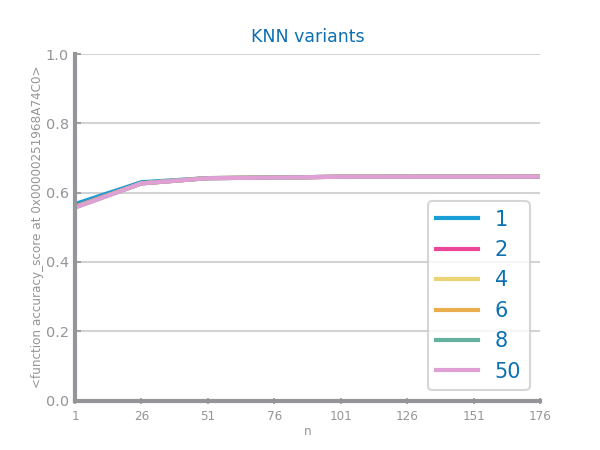
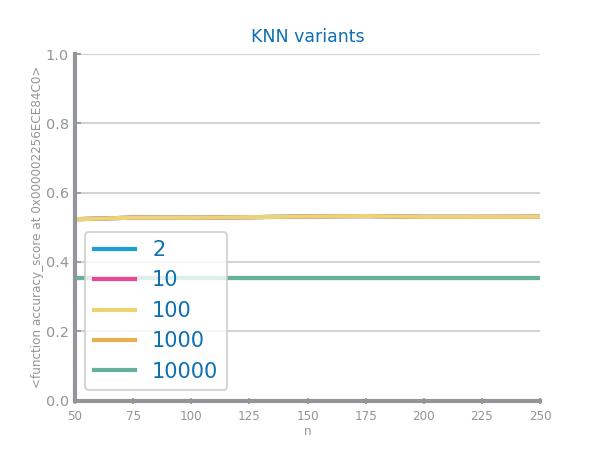
Final config of KNN study

diff --git a/diabetesDataset/lab3/KNNParameterisation.py b/diabetesDataset/lab3/KNNParameterisation.py
@@ -16,17 +16,17 @@ y = data['readmitted']
 X =  data.drop(columns=['readmitted', 'Unnamed: 0'])
 
 
-xTrain, xTest, yTrain, yTest = sklearn.model_selection.train_test_split(X, y, train_size=0.6, random_state=42)
-xTrain, xVal, yTrain, yVal = sklearn.model_selection.train_test_split(
-    xTrain, yTrain, train_size=0.5, random_state=42)
+xTrain, xTest, yTrain, yTest = sklearn.model_selection.train_test_split(X, y, train_size=0.7, random_state=42)
+xTest, xVal, yTest, yVal = sklearn.model_selection.train_test_split(
+    xTest, yTest, train_size=0.3333333333333333333, random_state=42)
 
 labels = unique(yTrain)
 labels.sort()
 # %% GridSearch
 
 evalMetric = accuracy_score
-nvalues = np.arange(175,1001,25)
-dist = np.arange(50, 1001, 50)  # Add more distance metrics
+nvalues = np.arange(175,200, 1)
+dist = [10]  # Add more distance metrics
 values = {}
 best = (0, '')
 lastBest = 0
@@ -44,7 +44,7 @@ for d in dist:
 
 figure()
 multiple_line_chart(nvalues, values, title='KNN variants', xlabel='n', ylabel=str(accuracy_score), percentage=True)
-savefig('images/{file_tag}_knn_study.png')
+savefig('images/final_knn_study.png')
 show()
 print('Best results with %d neighbors and %s'%(best[0], best[1]))
 
@@ -58,6 +58,6 @@ clf.fit(xTrain, yTrain)
 predictedYTrain = clf.predict(xTrain)
 predictedYTest = clf.predict(xTest)
 plot_evaluation_results(labels, yTrain, predictedYTrain, yTest, predictedYTest)
-savefig('images/{file_tag}_knn_best.png')
+savefig('images/final_knn_best.png')
 show()
 # %%
